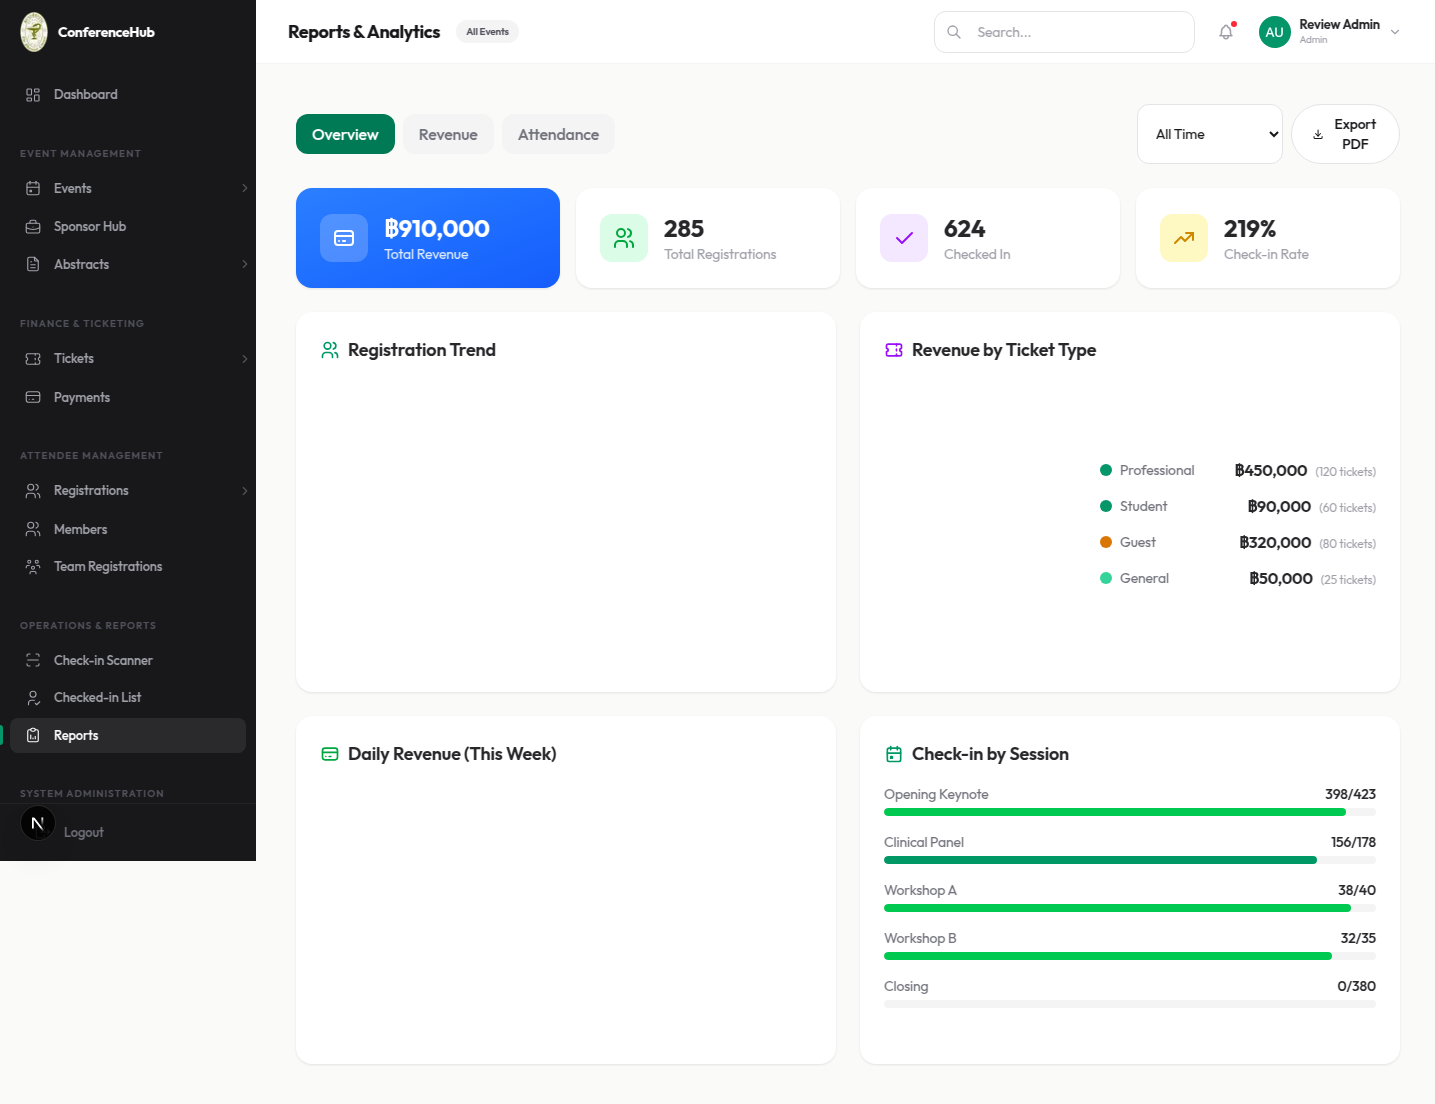
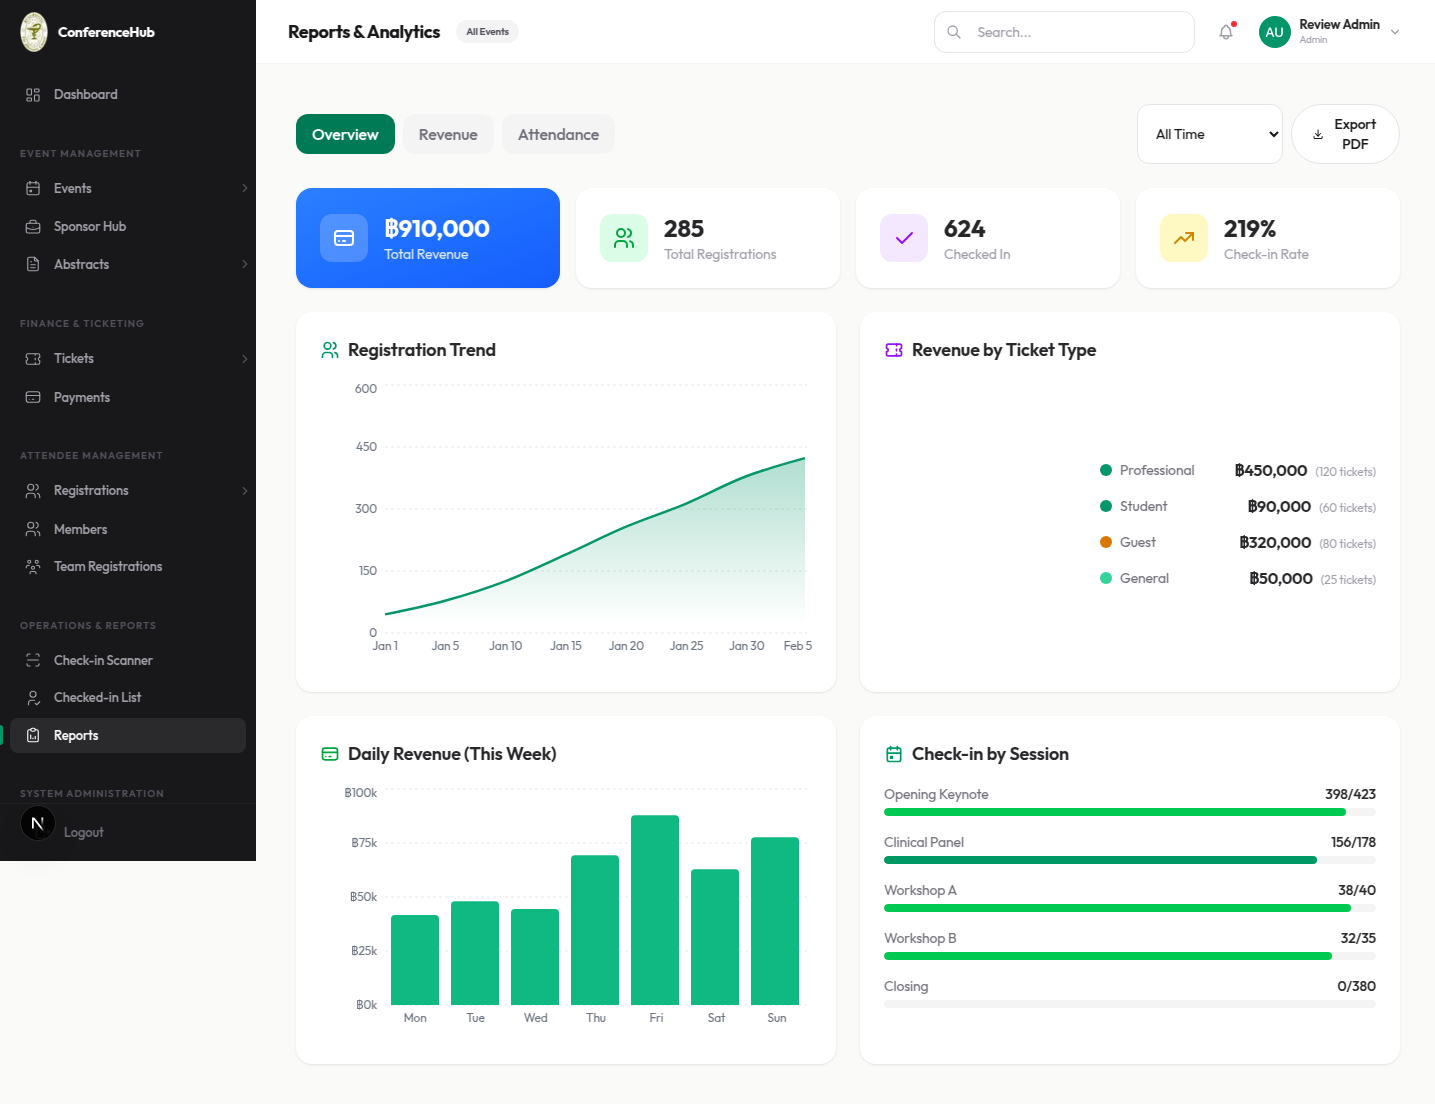
test(session-grants): record comprehensive final verification
Record the fresh comprehensive Docker verification, refresh actual UI/check-in/export artifacts, and retain the review-only mobile-reflow click correction proven by two exact UI-01–14 + REPORT-01–03 Docker E2E passes. No product requirement or assertion changed. No push.

Changed region(s): [[0.2453, 0.7391, 0.5826, 0.9239], [0.3679, 0.4004, 0.5826, 0.5236], [0.3066, 0.5236, 0.3373, 0.5543]]

diff --git a/docs/superpowers/verification/admin-session-grants/2026-10-01-comprehensive-final-verification.md b/docs/superpowers/verification/admin-session-grants/2026-10-01-comprehensive-final-verification.md
@@ -1,0 +1,78 @@
+# Admin Session Grants — Comprehensive Final Docker Verification
+
+Date: 2026-10-01
+Goal: `admin-session-grants-implementation-review-2026-09-30`
+Compose project: `admin-session-grants-test-20260930`
+Policy: Docker-only verification; synthetic data/fake mail only; no production DB, deploy, real email, real payment provider, or push.
+
+## Final revision baseline
+
+- conference-api review commit before final verification: `7f75b68` (`test(session-grants): record final review evidence`)
+- conference-backoffice review fix commit: `2d6d9c5` (`fix(session-grants): address final review UI findings`)
+- conference-web Session Grants implementation commit: `3aeca8d`; no review product diff was required.
+- R01–R17 and the 90/90 acceptance gate matrix were already closed before this comprehensive rerun.
+- Final verification reused the persistent goal-owned Docker PostgreSQL/network/volumes as required.
+
+## Fresh comprehensive final results
+
+| Area | Docker command / proof | Task | Result |
+| --- | --- | --- | --- |
+| API compile | `docker compose ... run --rm api-tools npm run build` | `ac126a5d-519e-4a47-9535-e5cd7ffe2d7c` | PASS, exit 0 |
+| API unit/routes/mail/schema | `npm run test:session-grants` in api-tools | `9b52d9da-1b92-4298-9048-97da2214a8a8` | PASS, 16/16 |
+| API migration/runtime integration | `npm run test:session-grants:integration` in api-tools | `3a4ee90a-a2b2-40d9-98ff-d7f74aba16b4` | PASS, migration 4/4 + runtime 4/4 |
+| Backoffice build/type | `npm run build` in backoffice-tools | `7bccc033-e1a6-4066-bc89-3aa5e184f7c1` | PASS, exit 0 |
+| Backoffice selection | mandated API tsx runner + `src/lib/session-grant-selection.test.ts` | `66e2e03a-a825-403e-8265-6582c9cd5460` | PASS, 4/4 |
+| Web build/type | `npm run build` in web-tools | `dbecea4d-3688-4966-bec8-a1e379127f5a` | PASS, exit 0 |
+| Web focused regressions | payments + AdminGrantedSessions Vitest | `a567ba61-2b64-4320-9aed-3c58c9dfdf31` | PASS, 7/7 |
+| Worker health | `npm run jobs:session-grants:health` against isolated integration DB | `22643823-d19d-4c79-ae06-dcd96422224f` | PASS; pending=0, sending=0, expiredSending=0, unknown=0 |
+| 500-row proof | `npm run test:session-grants:load500` | `886a844f-e53e-4ded-8820-2596bd9e405d` | PASS; requested=500, added=500, duration=1816ms, no truncation |
+| Disabled-worker recovery | pre-read → `ADMIN_SESSION_GRANTS_ENABLED=false npm run jobs:session-grants:once` → post-read | `cf774418-6a05-4fad-8aff-9fb78dd45a3b`, `9893e75b-cd02-44fc-98d3-451894e7eb4c`, `bc2ec4f0-c358-4137-b7f4-a0421ae96ef9` | PASS; grant tables readable before/after and row count unchanged |
+| Final review fixture setup | review-owned synthetic fixture only | `925287b1-e033-4690-8451-873beb019ff1` | PASS |
+| Fresh exact UI/report E2E | `docker compose ... exec -T browser sh -lc "node /workspace/conference-api/review/session-grants-review-e2e.mjs"` | `e9292208-121b-4d6c-bd9d-94a04b4d9522` | PASS, exit 0; UI-01–14 + REPORT-01–03 |
+| Review fixture cleanup | review-owned synthetic rows only | `f2b3b2a6-e1c7-4dc4-9c05-77a9f0ba1884` | PASS |
+
+## Final E2E historical failure and harness-only correction
+
+The first comprehensive-final UI run `95a9b036-ce27-4580-a3fb-3c9d0080903b` reached UI-13 and then failed UI-14 because the review helper attempted to click text after the mobile reflow without restricting the target to a visible/enabled detail action.
+
+The correction is review-only in `review/session-grants-review-e2e.mjs`: UI-14 now waits for and clicks the visible, enabled `เพิ่มสิทธิ์ Session` action. No product requirement, assertion, business rule, API contract, or schema behavior changed. No assertion was removed or weakened.
+
+After the harness correction:
+- `0c78e144-8b87-489a-a7b4-45543c6c52c6`: exact Docker E2E PASS.
+- `e9292208-121b-4d6c-bd9d-94a04b4d9522`: fresh final exact Docker E2E PASS again after fixture cleanup/setup.
+
+UI-14 telemetry in the final run shows the dialog open with focus inside for all observed Tab steps and each Tab keydown `defaultPrevented=true`. REPORT-01–03 also PASS and the actual XLSX/PNG artifacts were refreshed from this final run.
+
+## Artifact paths
+
+- `docs/superpowers/verification/admin-session-grants/review-artifacts/checkins_Session_Grant_Review_Event_A.xlsx`
+- `docs/superpowers/verification/admin-session-grants/review-artifacts/registrations_Session_Grant_Review_Event_A.xlsx`
+- `docs/superpowers/verification/admin-session-grants/review-artifacts/report-01-checkin-ui.png`
+- `docs/superpowers/verification/admin-session-grants/review-artifacts/review-final-page.png`
+- `docs/superpowers/verification/admin-session-grants/review-artifacts/ui-14-mobile-detail.png`
+
+## Final Git/CMD inspection
+
+- API `git diff --check`: PASS, exit 0. Before the final evidence commit the only worktree changes are the harness-only correction and final refreshed review artifacts.
+- Backoffice `git diff --check`: PASS, exit 0; working tree clean after removing Next-generated `tsconfig.json` rewrite.
+- Web `git diff --check`: PASS, exit 0; only pre-existing/unrelated untracked `src/components/session-grants/AdminGrantedSessionsCard.tsx` remains and is intentionally untouched.
+- Next build-generated `tsconfig.json` formatting/include rewrites in Backoffice/Web were verification side effects and were restored to their committed versions; no user work was removed.
+- No managed shell task or managed process remains RUNNING/UNKNOWN at this point.
+
+## Final acceptance disposition
+
+- Implementation T00–T16: PASS/completed.
+- Review R01–R17: PASS/completed.
+- 90/90 acceptance gates: PASS/dispositioned.
+- CMD-01–07: dispositioned.
+- UI-01–UI-14: PASS in the fresh comprehensive-final run.
+- REPORT-01–REPORT-03: PASS in the fresh comprehensive-final run.
+- No Session Grants FAIL, BLOCKED, SKIP, NOT RUN, or DEFERRED_DEPENDENCY remains.
+- Historical repository-wide lint/lockfile baseline debt remains documented as baseline context and is not rewritten as newly fixed.
+- No push performed.
+- No deployment performed.
+- No production/shared database used.
+- No real email sent.
+- No real payment provider called.
+
+The goal-owned persistent Docker environment remains present only until final evidence is committed and ownership-checked cleanup is completed.
